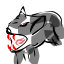
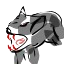
sprites

diff --git a/lib/scene/Scout.dart b/lib/scene/Scout.dart
@@ -99,11 +99,11 @@ class _ScoutPageState extends State<ScoutPage> {
                         decoration: BoxDecoration(
                           image: DecorationImage(
                             image: isPlayer(index)
-                                ? const AssetImage("assets/images/player.png")
+                                ? const AssetImage("assets/images/warrior.png")
                                 : checkVisible(index)
                                     ? utils.isCollectable(index)
                                         ? const AssetImage(
-                                            "assets/images/collectable.png")
+                                            "assets/images/garbage.png")
                                         : utils.isEnemy(index)
                                             ? const AssetImage(
                                                 "assets/images/enemy.png")
@@ -141,89 +141,12 @@ class _ScoutPageState extends State<ScoutPage> {
                                   image: DecorationImage(
                                       fit: BoxFit.fill,
                                       image: AssetImage(
-                                          "assets/images/scout.png"))),
+                                          "assets/images/warrior.png"))),
                             ),
                           ),
                         ))
                     .toList(),
               )),
-          // Row(
-          //   mainAxisAlignment: MainAxisAlignment.spaceAround,
-          //   children: [
-          //     InkWell(
-          //       onTap: () {
-          //         // setState(() {
-          //         //   selectedCharacterType = 'scout';
-          //         // });
-          //         // print(selectedCharacterType);
-          //       },
-          //       child: Container(
-          //         height: 50,
-          //         width: 50,
-          //         decoration: BoxDecoration(
-          //             image: const DecorationImage(
-          //                 fit: BoxFit.fill,
-          //                 image: AssetImage("assets/images/scout.png"))),
-          //       ),
-          //     ),
-          //     InkWell(
-          //       // onTap: () {
-          //       //   setState(() {
-          //       //     selectedCharacterType = 'warrior';
-          //       //   });
-          //       //   print(selectedCharacterType);
-          //       // },
-          //       child: Container(
-          //         height: 50,
-          //         width: 50,
-          //         decoration: BoxDecoration(
-          //             image: const DecorationImage(
-          //                 fit: BoxFit.fill,
-          //                 image: AssetImage("assets/images/warrior.png"))),
-          //       ),
-          //     ),
-          //     InkWell(
-          //       onTap: () {
-          //         // setState(() {
-          //         //   selectedCharacterType = 'medic';
-          //         // });
-          //         // print(selectedCharacterType);
-          //       },
-          //       child: Container(
-          //         height: 50,
-          //         width: 50,
-          //         decoration: BoxDecoration(
-          //             image: const DecorationImage(
-          //                 fit: BoxFit.fill,
-          //                 image: AssetImage("assets/images/medic.png"))),
-          //       ),
-          //     ),
-          //     InkWell(
-          //       onTap: () {
-          //         setState(() {
-          //           changePlayer(players[2]);
-          //         });
-          //       },
-          //       child: Container(
-          //         height: 50,
-          //         width: 50,
-          //         decoration: const BoxDecoration(
-          //             image: DecorationImage(
-          //                 fit: BoxFit.fill,
-          //                 image: AssetImage("assets/images/collector.png"))),
-          //       ),
-          //     ),
-          //   ],
-          // ),
-          // // const Row(
-          //   mainAxisAlignment: MainAxisAlignment.spaceAround,
-          //   children: [
-          //     Text('scout'),
-          //     Text('warrior'),
-          //     Text('medic'),
-          //     Text('collector')
-          //   ],
-          // ),
           Text("Garbage collected $collectableCount"),
           Wrap(
             children: [

diff --git a/lib/scout/enemy.dart b/lib/scout/enemy.dart
@@ -1,19 +1,19 @@
 class Enemy {
   String name;
-  int hitPoints;
+  int health;
   int experiencePoints;
   int gold;
-  int damage;
+  int damagePoint;
 
-  Enemy(
-      this.name, this.hitPoints, this.experiencePoints, this.gold, this.damage);
+  Enemy(this.name, this.health, this.experiencePoints, this.gold,
+      this.damagePoint);
 
   void attack() {
-    print("Enemy attacks for $damage damage!");
+    print("Enemy attacks for $damagePoint damage!");
   }
 
   void takeDamage(int damage) {
-    hitPoints -= damage;
+    health -= damage;
     print("Enemy took $damage damage!");
   }
 

diff --git a/lib/scout/utils.dart b/lib/scout/utils.dart
@@ -96,7 +96,8 @@ class Utils {
       return true;
     }
     // check right
-    else if (checkPostion == playerPosition + 1 && playerPosition % cols != 4) {
+    else if (checkPostion == playerPosition + 1 &&
+        playerPosition % cols != cols - 1) {
       return true;
     }
     // check up
